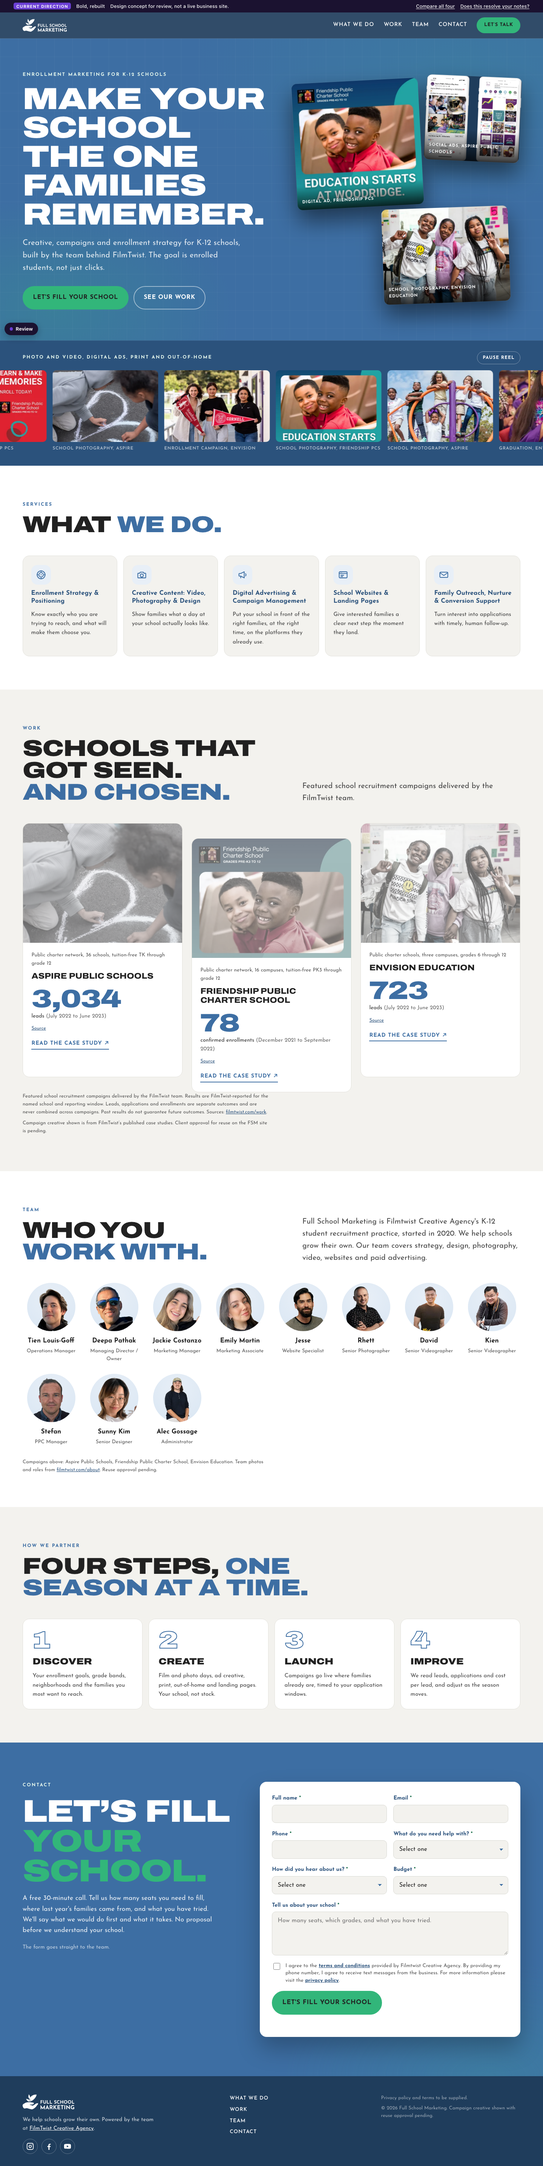
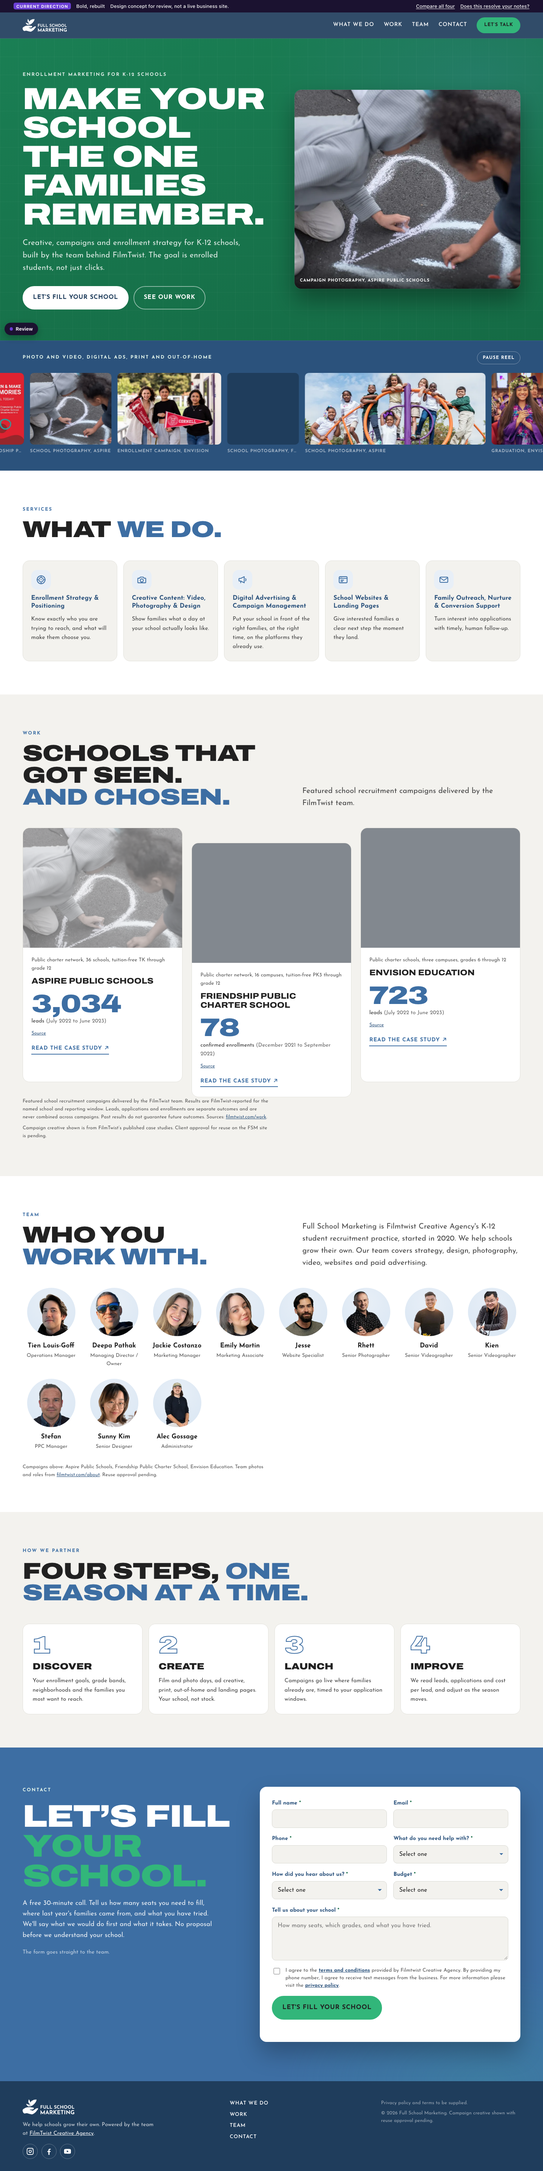
Concept 06 round 2 step 2: reel creatives shown whole with hover enlarge and a lightbox, hero image preload, hub Version 2 checklist, opener and reel tests, posters, docs

diff --git a/src/concepts/bold/bold.css b/src/concepts/bold/bold.css
@@ -117,20 +117,34 @@
 .cr-opener-statement em { font-style: normal; color: var(--fsm-green-deep); }
 
 /* ---- reel / marquee ---- */
-.cr-reel { background: var(--surface-2); color: #fff; padding: 1.8rem 0 2.2rem; border-top: 1px solid rgba(255,255,255,.08); border-bottom: 1px solid rgba(255,255,255,.08); overflow: hidden; }
+.cr-reel { background: var(--surface-2); color: #fff; padding: 1.8rem 0 2.2rem; border-top: 1px solid rgba(255,255,255,.08); border-bottom: 1px solid rgba(255,255,255,.08); position: relative; z-index: 2; }
 .cr-reel-head { display: flex; align-items: center; justify-content: space-between; gap: 1rem; flex-wrap: wrap; margin-bottom: 1rem; }
 .cr-reel-head .cr-eyebrow { margin: 0; }
 .cr-reel-pause { background: none; border: 1px solid rgba(255,255,255,.4); color: #fff; border-radius: 999px; padding: .4rem .9rem; font-family: var(--label); font-size: .75rem; font-weight: 700; letter-spacing: .08em; text-transform: uppercase; cursor: pointer; }
 .cr-reel-pause:hover { border-color: #fff; background: rgba(255,255,255,.1); }
-.cr-marquee { width: 100%; overflow: hidden; }
+.cr-marquee { width: 100%; overflow-x: clip; overflow-y: visible; padding: .4rem 0; }
 .cr-marquee-track { display: flex; gap: 1rem; width: max-content; margin: 0; padding: 0; list-style: none; animation: cr-marquee 55s linear infinite; }
 .cr-marquee:hover .cr-marquee-track, .cr-marquee:focus-within .cr-marquee-track, .cr-marquee.is-paused .cr-marquee-track { animation-play-state: paused; }
-.cr-marquee-track li { width: 280px; flex: none; }
-.cr-marquee-track img, .cr-reel-grid img { width: 100%; height: 190px; object-fit: cover; border-radius: 10px; }
+.cr-marquee-track li { flex: none; width: auto; display: grid; justify-items: start; }
+.cr-marquee-track li > span { width: 0; min-width: 100%; white-space: nowrap; overflow: hidden; text-overflow: ellipsis; } /* the caption never widens the tile */
+/* Round 2: the whole creative at its own proportion (--ar from the asset), 190px tall, never cropped; hover enlarges in place. */
+.cr-reel-item { display: block; margin: 0; padding: 0; border: 0; background: var(--surface-3); border-radius: 10px; overflow: hidden; cursor: zoom-in; height: 190px; aspect-ratio: var(--ar); transition: transform .25s ease, box-shadow .25s ease; transform-origin: center; }
+.cr-reel-item picture, .cr-reel-item img { display: block; width: 100%; height: 100%; }
+.cr-reel-item img { object-fit: contain; border-radius: 0; }
+.cr-reel-item:hover, .cr-reel-item:focus-visible { transform: scale(1.45); box-shadow: 0 18px 40px rgba(0,0,0,.5); outline: none; }
+.cr-marquee-track li:hover, .cr-marquee-track li:focus-within, .cr-reel-grid li:hover, .cr-reel-grid li:focus-within { position: relative; z-index: 5; }
+.cr-reel-item:focus-visible { box-shadow: 0 0 0 3px var(--accent), 0 18px 40px rgba(0,0,0,.5); }
+.cr-lightbox { border: 0; padding: 0; background: transparent; max-width: min(92vw, 1100px); max-height: 92vh; }
+.cr-lightbox::backdrop { background: rgba(31,61,92,.88); }
+.cr-lightbox-figure { margin: 0; background: var(--surface-3); border-radius: 14px; overflow: hidden; }
+.cr-lightbox-figure picture, .cr-lightbox-figure img { display: block; max-width: min(92vw, 1100px); max-height: calc(92vh - 5.5rem); width: auto; height: auto; margin-inline: auto; }
+.cr-lightbox-figure figcaption { padding: .8rem 1rem; color: #fff; font-family: var(--label); font-size: .8rem; font-weight: 600; letter-spacing: .06em; text-transform: uppercase; }
+.cr-lightbox-close { margin: .8rem auto 0; display: block; background: #fff; color: var(--fsm-blue-ink); border: 0; border-radius: 999px; padding: .6rem 1.2rem; font-family: var(--label); font-weight: 700; font-size: .8rem; letter-spacing: .08em; text-transform: uppercase; cursor: pointer; }
+
 .cr-marquee-track span, .cr-reel-grid span { display: block; margin-top: .5rem; font-family: var(--label); font-size: .72rem; font-weight: 600; letter-spacing: .08em; text-transform: uppercase; color: rgba(255,255,255,.7); }
 @keyframes cr-marquee { to { transform: translateX(-50%); } }
 .cr-reel-grid { list-style: none; margin: 0; padding: 0; display: grid; grid-template-columns: repeat(auto-fill, minmax(180px, 1fr)); gap: 1rem; }
-.cr-reel-grid img { height: 140px; }
+.cr-reel-grid .cr-reel-item { height: 140px; max-width: 100%; }
 
 /* ---- what we do: five equal tiles, icon, name, one line (Concept 05's tiles on this chrome) ---- */
 .cr-services { background: #fff; color: var(--ink); padding-bottom: clamp(3rem, 7vw, 5.5rem); }
@@ -289,7 +303,7 @@
 @media (prefers-reduced-motion: reduce) {
   .cr-kinetic .cr-word { opacity: 1; transform: none; animation: none; }
   .cr-marquee-track { animation: none; }
-  .cr-hero-photo, .cr-case-media img, .cr-btn, .cr-case, [data-reveal] { transition: none; }
+  .cr-hero-photo, .cr-reel-item, .cr-case-media img, .cr-btn, .cr-case, [data-reveal] { transition: none; }
   .reveal-ready [data-reveal]:not(.is-in) { filter: none; opacity: 1; }
 }
 

diff --git a/src/concepts/bold/App.tsx b/src/concepts/bold/App.tsx
@@ -1,4 +1,4 @@
-import { useEffect, useState } from 'react';
+import { useEffect, useRef, useState, type MouseEvent } from 'react';
 import { siteConfig, url } from '../../content/config';
 import { caseStudies, headlineMetric, type CaseStudy } from '../../content/caseStudies';
 import { services } from '../../content/services';
@@ -120,9 +120,50 @@ const reelItems = [
   school: caseStudies.find((c) => [c.hero, ...c.gallery].includes(m))!.shortName,
 }));
 
+type ReelItem = (typeof reelItems)[number];
+
+/**
+ * Round 2 (October 29): every creative is shown whole, at its own proportion, on the reel's dark surface (the brand owner
+ * noted the cropping). Hovering a tile enlarges it in place; a click, tap or Enter opens the full creative in a dialog
+ * that Escape, the Close button or the backdrop dismisses. The marquee pauses while a tile is hovered or focused.
+ */
+function ReelTile({ m, dup, onOpen, sizes }: { m: ReelItem; dup: boolean; onOpen: (m: ReelItem) => void; sizes: string }) {
+  const label = `${m.caption ?? 'School photography'}, ${m.school}`;
+  return (
+    <li aria-hidden={dup || undefined} style={{ '--ar': `${m.width} / ${m.height}` } as React.CSSProperties}>
+      <button type="button" className="cr-reel-item" onClick={() => onOpen(m)} tabIndex={dup ? -1 : 0} aria-label={`Enlarge: ${label}`} data-testid={dup ? undefined : 'reel-item'}>
+        <ResponsiveMedia asset={m} sizes={sizes} alt={dup ? '' : undefined} />
+      </button>
+      <span>{label}</span>
+    </li>
+  );
+}
+
 function Reel() {
   const reduced = useReducedMotion();
   const [paused, setPaused] = useState(false);
+  const [open, setOpen] = useState<ReelItem | null>(null);
+  const dialog = useRef<HTMLDialogElement>(null);
+
+  useEffect(() => {
+    const d = dialog.current;
+    if (!d) return;
+    if (open && !d.open) d.showModal();
+    if (!open && d.open) d.close();
+  }, [open]);
+
+  const onBackdrop = (e: MouseEvent<HTMLDialogElement>) => { if (e.target === e.currentTarget) setOpen(null); };
+  const lightbox = (
+    <dialog ref={dialog} className="cr-lightbox" aria-label={open ? `${open.caption ?? 'School photography'}, ${open.school}` : 'Campaign creative'} onClose={() => setOpen(null)} onClick={onBackdrop} data-testid="lightbox">
+      {open && (
+        <figure className="cr-lightbox-figure">
+          <ResponsiveMedia asset={open} sizes="min(92vw, 1100px)" />
+          <figcaption>{open.caption ?? 'School photography'}, {open.school}</figcaption>
+        </figure>
+      )}
+      <button type="button" className="cr-lightbox-close" onClick={() => setOpen(null)} data-testid="lightbox-close" aria-label="Close">Close</button>
+    </dialog>
+  );
 
   if (reduced) {
     return (
@@ -132,16 +173,10 @@ function Reel() {
             <span className="cr-eyebrow cr-eyebrow--light">Three campaign types, one team</span>
           </div>
           <ul className="cr-reel-grid">
-            {reelItems.map((m, i) => (
-              <li key={i}>
-                <ResponsiveMedia asset={m} sizes="(max-width: 700px) 50vw, 20vw" />
-                <span>
-                  {m.caption ?? 'School photography'}, {m.school}
-                </span>
-              </li>
-            ))}
+            {reelItems.map((m, i) => <ReelTile m={m} dup={false} onOpen={setOpen} sizes="(max-width: 700px) 50vw, 20vw" key={i} />)}
           </ul>
         </div>
+        {lightbox}
       </section>
     );
   }
@@ -156,18 +191,10 @@ function Reel() {
       </div>
       <div className={`cr-marquee${paused ? ' is-paused' : ''}`}>
         <ul className="cr-marquee-track">
-          {[0, 1].map((dup) =>
-            reelItems.map((m, i) => (
-              <li key={`${dup}-${i}`} aria-hidden={dup === 1 || undefined}>
-                <ResponsiveMedia asset={m} sizes="280px" alt={dup === 1 ? '' : undefined} />
-                <span>
-                  {m.caption ?? 'School photography'}, {m.school}
-                </span>
-              </li>
-            )),
-          )}
+          {[0, 1].map((dup) => reelItems.map((m, i) => <ReelTile m={m} dup={dup === 1} onOpen={setOpen} sizes="340px" key={`${dup}-${i}`} />))}
         </ul>
       </div>
+      {lightbox}
     </section>
   );
 }

diff --git a/tests/smoke.spec.ts b/tests/smoke.spec.ts
@@ -636,3 +636,62 @@ test('Current direction feedback sends only its own fields, never the merged or 
   await expect(page.locator('[data-testid="current-resolves"][value="yes"]')).toBeChecked();
   await expect(page.locator('[data-testid="merged-resolves"][value="no"]')).toBeChecked();
 });
+
+test('Concept 06 opener: plays once per session over a rendered page, any key skips it, none under reduced motion', async ({ page, browser, baseURL }) => {
+  await page.addInitScript(() => { try { sessionStorage.removeItem('fsm-bold-opener-seen'); } catch { /* ignore */ } });
+  const errors = watch(page);
+  await page.goto('bold/', { waitUntil: 'load' });
+  const opener = page.getByTestId('opener');
+  await expect(opener).toBeVisible();
+  await expect(page.locator('h1')).toHaveCount(1); // the page is in the document underneath
+  await expect(page.getByTestId('fsm-form')).toBeAttached();
+  expect(await page.evaluate(() => window.__fsmOpener?.duration)).toBeCloseTo(3.9, 1);
+  await expect(opener).toHaveCount(0, { timeout: 8_000 });
+  expect(await page.evaluate(() => sessionStorage.getItem('fsm-bold-opener-seen'))).toBe('1');
+  expect(await page.evaluate(() => document.documentElement.classList.contains('cr-opener-lock'))).toBe(false);
+  await page.reload({ waitUntil: 'load' });
+  await expect(page.getByTestId('opener')).toHaveCount(0); // once per session
+  // a key skips it
+  await page.goto('bold/?opener=1', { waitUntil: 'load' });
+  await expect(page.getByTestId('opener')).toBeVisible();
+  await page.keyboard.press('Space');
+  await expect(page.getByTestId('opener')).toHaveCount(0, { timeout: 2_000 });
+  expect(errors).toEqual([]);
+  // reduced motion: no opener at all
+  const ctx = await browser.newContext({ reducedMotion: 'reduce', viewport: { width: 1440, height: 900 } });
+  const p2 = await ctx.newPage();
+  await p2.goto(`${baseURL}bold/`, { waitUntil: 'load' });
+  await p2.waitForTimeout(400);
+  await expect(p2.getByTestId('opener')).toHaveCount(0);
+  await ctx.close();
+});
+
+test('Concept 06 reel: every creative shows whole, hover enlarges, click opens the full creative, Escape closes', async ({ page }) => {
+  await page.goto('bold/', { waitUntil: 'load' });
+  await settle(page);
+  const items = page.getByTestId('reel-item');
+  expect(await items.count()).toBeGreaterThanOrEqual(8);
+  const crops = await items.evaluateAll((els) => els.map((el) => {
+    const img = el.querySelector('img')!; // the asset's own width and height attributes: off-screen tiles are lazy and not yet decoded
+    const shown = img.clientWidth / img.clientHeight, natural = Number(img.getAttribute('width')) / Number(img.getAttribute('height'));
+    return { shown: +shown.toFixed(2), natural: +natural.toFixed(2), ok: Math.abs(shown - natural) / natural < 0.03 };
+  }));
+  expect(crops.filter((c) => !c.ok)).toEqual([]);
+  await page.getByRole('button', { name: 'Pause reel' }).click(); // tiles must be still for a hover to land
+  const first = items.first();
+  await first.hover();
+  await page.waitForTimeout(350);
+  const scale = await first.evaluate((el) => { const m = new DOMMatrix(getComputedStyle(el).transform); return m.a; });
+  expect(scale).toBeGreaterThan(1.3);
+  await first.click();
+  const box = page.getByTestId('lightbox');
+  await expect(box).toBeVisible();
+  await expect(box.locator('img')).toBeVisible();
+  await page.keyboard.press('Escape');
+  await expect(box).toBeHidden();
+  await first.click();
+  await expect(box).toBeVisible();
+  await page.getByTestId('lightbox-close').click();
+  await expect(box).toBeHidden();
+});
+

diff --git a/src/content/concepts.ts b/src/content/concepts.ts
@@ -158,8 +158,19 @@ export const mergedChecklist: { round: string; items: ChecklistItem[] }[] = [
 ];
 
 /** The current direction's version label and the checklist of reviewer notes it answers, shown on the hub. No names. */
-export const currentVersion = { label: 'Version 1', date: 'October 28, 2026' };
+export const currentVersion = { label: 'Version 2', date: 'October 29, 2026' };
 export const currentChecklist: { round: string; items: ChecklistItem[] }[] = [
+  {
+    round: 'Reviews of Version 1, October 29',
+    items: [
+      { note: 'The opening is still a little busy; open with a logo animation, then a bold statement, then the page', state: 'done', how: 'The opener is the mark as it animates at the top of the FSM module videos, rebuilt for the web: the dot, the hand, the leaves, the wordmark, then the headline, then the page. Once per session, any scroll or tap skips it, nothing under reduced motion.' },
+      { note: 'Not a fan of the three little thumbnails in the hero', state: 'done', how: 'The collage is gone. The hero is the statement beside one campaign photograph.' },
+      { note: 'Lean more into the brand colors at the open, and into the greens', state: 'done', how: 'The opener is the mark in its own colors on white; the hero field is now the kit green, deepened so white type stays readable. The final call stays blue.' },
+      { note: 'The reel crops the creatives; enlarge on hover', state: 'done', how: 'Every creative shows whole at its own proportion. Hovering enlarges it in place; a click or tap opens it full size.' },
+      { note: 'The staff list is out of date', state: 'not-done', how: 'The eleven names came from filmtwist.com/about. The current roster, titles and headshots are needed from FilmTwist; the section updates the day they arrive.' },
+      { note: 'The headline type works', state: 'done', how: 'Unchanged.' },
+    ],
+  },
   {
     round: 'Review of Concept 05, October 28',
     items: [

diff --git a/bold/index.html b/bold/index.html
@@ -14,6 +14,8 @@
     <meta property="og:image:height" content="630" />
     <meta name="twitter:card" content="summary_large_image" />
     <meta name="theme-color" content="#3d6ea3" />
+    <!-- The hero photograph is the largest paint; preloaded so it does not wait behind the script (round 2, October 29). -->
+    <link rel="preload" as="image" imagesrcset="../assets/campaigns/aspire/classroom-photo-435.webp 435w, ../assets/campaigns/aspire/classroom-photo-870.webp 870w" imagesizes="(max-width: 960px) 92vw, 44vw" type="image/webp" fetchpriority="high" />
     <link rel="icon" href="/assets/brand/favicon/favicon.ico" sizes="any" />
     <link rel="icon" type="image/png" sizes="32x32" href="/assets/brand/favicon/favicon-32x32.png" />
     <link rel="icon" type="image/png" sizes="16x16" href="/assets/brand/favicon/favicon-16x16.png" />

diff --git a/docs/CONCEPT_06_BRIEF.md b/docs/CONCEPT_06_BRIEF.md
@@ -79,7 +79,7 @@ The H1 wording (Concept 02's, unchanged), the tagline, team photo reuse and the 
 - Hub: a "The current direction" section (`#current`) above the merged direction, with its own feedback model (`fsm-review-current-v1`), five fields added to the feedback form on October 28, and a "What Version 1 addresses" checklist. Concept 05 is labeled "Version 2.1, superseded" and keeps its checklist and form.
 - Cut tests 1 to 6 are asserted in `tests/smoke.spec.ts` ("Concept 06: one H1 ...") except test 1, which is a reading of the phone capture, and test 5, which is a `git diff main` over the Concept 01 to 05 directories before the merge.
 
-## Round 2: the opener (October 29, 2026, proposed, not built)
+## Round 2: the opener (October 29, 2026, built on the `concept-06-round-2` branch)
 
 The decision maker's October 29 review (hub form, "mostly" resolves): the site is solid; the opening is still a little busy; he proposes "a logo animation screen with the hand and then a bold statement and then it transitions into the first page", more brand color at the open, and more green overall. The headline type stays.
 
@@ -99,6 +99,16 @@ The decision maker's October 29 review (hub form, "mostly" resolves): the site i
 **The brand owner's October 29 review (hub form, "mostly" resolves) adds three items.** She is "not a fan of the three little thumbnails" in the hero, which confirms the one-photo hero above; both reviewers now reject the collage. The staff list is out of date: the eleven cut-outs were read from filmtwist.com/about on October 28, so that page is itself stale, and the current roster (names, titles, headshots) must come from her before the team section can be corrected (REQUIRES_CLIENT_CONFIRMATION; until then the section stays as built with the source note). The reel crops the creatives (fixed 190px tiles, `object-fit: cover`); she asks whether that is fine and for an enlarged view on hover. Round 2 shows each creative whole on its tile (contain, on the reel's dark surface) and opens the full creative in a dialog on hover intent or tap, closable with Escape, never autoplaying the marquee behind it. Type and color are settled with her ("that works", "the mix of colors are good"), so the green lean stays confined to the opener and the hero field.
 
 **Gate.** Build the opener and the recolored hero on a branch, show the project owner a frame strip (`scripts/frames.mjs` style, twelve frames across the sequence) and the phone capture before anything else, and nothing deploys without his go. The brand owner has not answered on Concept 06; her answer should be in hand, or asked for in the same reply, before the opener ships, so the opener is built once.
+
+## Round 2 build notes (October 29, 2026)
+
+- `src/concepts/bold/Opener.tsx`: the dot, the hand (a GSAP MorphSVG from a circle path to the emblem's hand path), the leaves (scaled from the stem), the wordmark (live Josefin Sans, letter stagger), the statement (the H1 line in the display face), the slide-up. 3.9 seconds. Session flag `fsm-bold-opener-seen`; `?opener=1|0` forces it on or off; `window.__fsmOpener.seek(t)` pauses the timeline at `t` for frame captures and tests (it returns nothing: a GSAP timeline handed back through `page.evaluate` serializes a cyclic graph and crashes the renderer). Skip on wheel, touchstart, pointerdown or keydown. The overlay is `aria-hidden` and the page is in the document underneath from the first paint.
+- The bounce is written as sequential tweens; a GSAP `keyframes` array for the same arcs stalled at the first apex in Chromium.
+- Hero: one photograph (`caseStudies[0].hero`, the Aspire chalk-numeral still) beside the statement, on `#1a7f54` to the green ink with a deep-teal glow. White body text on the field measures above 4.5:1. The primary button is white with blue-ink text.
+- Reel: each tile is a button sized by the asset's own proportion (`--ar`), 190px tall, `object-fit: contain`, so nothing is cropped; hover or focus scales it 1.45 in place; click, tap or Enter opens a native `<dialog>` with the full creative and a caption; Escape, the Close button or the backdrop closes it. Duplicated marquee items stay `aria-hidden` with `tabindex="-1"`. The caption no longer widens the tile.
+- Hub: `currentVersion` is Version 2 (October 29); the checklist opens with the "Reviews of Version 1, October 29" round (six items, one not done: the staff roster).
+- Team: unchanged, pending the current roster from the client.
+- Tests: the opener (plays once over a rendered page, flag set, reload shows none, a key skips, reduced motion shows none) and the reel (every creative's shown proportion within 3% of its natural one, hover scale above 1.3, dialog opens and closes by Escape and by the button). Every other test starts past the opener through a `beforeEach` init script.
 
 ## Out of scope
 

diff --git a/docs/QA_REPORT.md b/docs/QA_REPORT.md
@@ -19,6 +19,41 @@ checklist). The Concept 04 smoke test was rewritten for the worksheet. Full suit
 (1.1 min). Desktop and mobile folds and full pages were reviewed; one defect (range labels colliding with notes) was fixed
 before the rerun. Lighthouse was not rerun for this revision.
 
+## Revision October 29, 2026 (fifth): Concept 06 round 2, the opener (branch, not deployed)
+
+Built on the `concept-06-round-2` branch after the two October 29 reviews of Version 1 (hub form: "mostly" resolves from both;
+the opener still busy; a logo animation then a statement then the page; more green; the hero thumbnails; the stale staff list;
+the reel's cropped creatives). The opener and hero were shown to the project owner as frame strips and captures before the rest
+was built. Not deployed: it waits for his go.
+
+- Opener (`src/concepts/bold/Opener.tsx`): FilmTwist's own module-video intro rebuilt for the web from the emblem's two SVG
+  paths. A kit-blue dot bounces three arcs, morphs into the hand (GSAP MorphSVG, free in gsap 3.13 and later), the leaves grow
+  from the stem, the wordmark rises letter by letter, the H1 line appears, the field slides up off the rendered page. 3.9 s.
+  Once per session (`sessionStorage`), any wheel, touch, pointer or key skips, none under reduced motion, `aria-hidden`; the page
+  (H1, sections, form) is in the document from the first paint.
+- Hero: the three-panel collage replaced by one campaign photograph beside the statement on a deep kit-green field (#1a7f54 to
+  the green ink; white body text above 4.5:1), white primary button. The photograph is preloaded with `fetchpriority="high"`.
+- Reel: every creative shown whole at its own proportion (no cropping), hover or focus enlarges it in place, click, tap or Enter
+  opens the full creative in a native dialog that Escape, Close or the backdrop dismisses.
+- Hub: Version 2 (October 29) with a "Reviews of Version 1, October 29" round at the top of the checklist (six items; the staff
+  roster is the one not done, pending the client).
+- Playwright: 276 passed, 0 failed (2.8 min), four projects. New: the opener test (plays once over a rendered page, flag set,
+  reload shows none, a key skips, reduced motion shows none) and the reel test (every tile's proportion within 3% of the asset's,
+  hover scale above 1.3, dialog opens and closes two ways); every other test starts past the opener through a `beforeEach`.
+  An earlier run showed eight failures: the reel test read `naturalWidth` of lazy, undecoded images (now the asset's declared
+  size), and three webkit page loads and one opener run that failed while Lighthouse and a capture script ran on the same
+  machine at the same time; all pass alone and in the clean rerun.
+- Defects found and fixed during the build: the statement fell back to a serif (the display font variable was not scoped to the
+  overlay); the bounce stalled at its first apex in Chromium when written as a GSAP keyframes array (now sequential tweens);
+  the seek hook returned the GSAP timeline, which `page.evaluate` tried to serialize and crashed the renderer (now returns
+  nothing); reel captions widened their tiles (the caption no longer sizes the tile); a width cap letterboxed wide creatives
+  (cap removed).
+- Lighthouse 13 (mobile, simulated throttling) on the production build: `/bold/` with the opener 91 / 100 / 100 / 63, LCP 3.4 s,
+  TBT 0 ms, CLS 0; `/bold/?opener=0` 92 / 100 / 100 / 63, LCP 3.3 s, FCP 0.9 s. The LCP element is now the hero photograph
+  (Version 1's was the headline text at 0.9 s); the observed render delay is 124 ms and the 3.3 s is the throttling model's
+  estimate for an image LCP. SEO 63 is the deliberate `noindex` alone.
+- Posters: `bold-*.webp` and the hub's regenerated (the page and the card changed); other pages' posters regenerated and reverted.
+
 ## Revision October 28, 2026 (fourth): Concept 06, the current direction
 
 Deployed to GitHub Pages on October 28, 2026 on the project owner's go (commit `b2d0581`, run 40799727233). The full suite was

diff --git a/docs/PRODUCTION_HANDOFF.md b/docs/PRODUCTION_HANDOFF.md
@@ -29,7 +29,7 @@ What remains to turn the chosen concept into the final Full School Marketing sit
   - 02: confirm every gallery item is approved; add true video assets with pause controls if desired.
   - 03: test the pinned story on real iOS Safari and low-end Android; keep the static reduced-motion path in sync when scenes change.
   - 05 (the merged direction, `src/concepts/visible/`): it is a fork of 03's story code, so promoting it means promoting `visible/` and `visible/work/*` and retiring `story/` along with the other originals. Confirm the three new copy claims (hero line, team line with "started in 2020", first-conversation line) before launch; wire the merged-feedback fields out of the review build with the rest of the review chrome.
-  - 06 (the current direction, `src/concepts/bold/`): a fork of 02's page with 05's sections. Promoting it means promoting `bold/` and `bold/work/*`; it imports `ServiceIcons.tsx` and `FsmForm.tsx` from `src/concepts/visible/`, which move with it. The five Concept 06 feedback fields (`siteConfig.feedbackForm.fields.current`) come out with the review chrome. Confirm the Concept 02 hero copy and the four partner-step lines before launch.
+  - 06 (the current direction, `src/concepts/bold/`): a fork of 02's page with 05's sections. Promoting it means promoting `bold/` and `bold/work/*`; it imports `ServiceIcons.tsx` and `FsmForm.tsx` from `src/concepts/visible/`, which move with it. The five Concept 06 feedback fields (`siteConfig.feedbackForm.fields.current`) come out with the review chrome. Confirm the Concept 02 hero copy and the four partner-step lines before launch. The opener (`Opener.tsx`) depends on GSAP's MorphSVG plugin, which ships free in gsap 3.13 and later; keep the once-per-session flag and the skip listeners if the opener is kept. The team section needs the current roster from the client before launch.
   - 05 contact form (Version 2.1): a native Full School Marketing form (`FsmForm.tsx`) posts to FilmTwist's LeadConnector "RFI Contact Form" with the widget's own payload (`siteConfig.leadConnector` holds the form id, location id, field tags and option lists, all read from the widget configuration on October 28, 2026). Before launch: (1) one real submission to confirm the lead lands in FilmTwist's account with every field mapped; (2) if FilmTwist turns on Turnstile for this form (its site keys are empty today), the direct post will start failing with a 4xx and the form shows its error line, so either keep Turnstile off for this form or switch `mode` to `'embed'`; (3) better still, FilmTwist creates a dedicated FSM form in the same account (an FSM tag on the lead, school-specific service and budget options) and the ids are swapped. The native form sets no cookies; the `'embed'` mode (LeadConnector plus Turnstile) does, which is what decision 7's consent language covers.
   - 05 team: the eleven cut-out headshots were lifted from the About-page files at 200px to 1,979px; the five smaller ones (Jesse, Rhett, David, Kien, Stefan) are soft at 2x. Ask FilmTwist for the originals before launch.
   - 04: confirm the client is comfortable with the worksheet arithmetic on their published campaign figures; consider adding a "send me my worksheet" email capture.

diff --git a/docs/CONTENT_AND_CLAIMS.md b/docs/CONTENT_AND_CLAIMS.md
@@ -125,6 +125,15 @@ The merged direction introduces three pieces of copy that the first four concept
 | Case-study pages | `visible/work/{aspire,friendship,envision}/` | Every figure, descriptor, story line and image is the same record as the cards (`caseStudies.ts`), with the published source cited at the foot of each page. No new claims. | As the case studies |
 | Hub checklist wording | Hub, "What Version 2 addresses" | Paraphrases of the 10/27 reviewer notes and the 10/28 asks, no names, no ratings. | Internal review copy |
 
+## Concept 06 round 2 (October 29, 2026)
+
+| Where | Text | Status |
+| --- | --- | --- |
+| Opener | The FSM mark and wordmark, animated as in the opening of the FSM module videos; the statement is the page's H1 line | Brand assets from the kit; the sequence is the client's own, from their videos |
+| Hero photo caption | "Campaign photography, Aspire Public Schools" | The Aspire case hero (FilmTwist's published campaign page); reuse approval is the standing one for campaign images |
+| Reel | Tile and dialog captions are the media record's captions and school short names | Unchanged |
+| Hub | "Reviews of Version 1, October 29" checklist wording (six items) | Paraphrases of the two reviewers' notes, no names |
+
 ## Concept 06 (October 28, 2026)
 
 Concept 06 reuses Concept 02's hero copy, Concept 05's services, case, team and contact copy, and the content record unchanged. The only wording it introduces is below.
